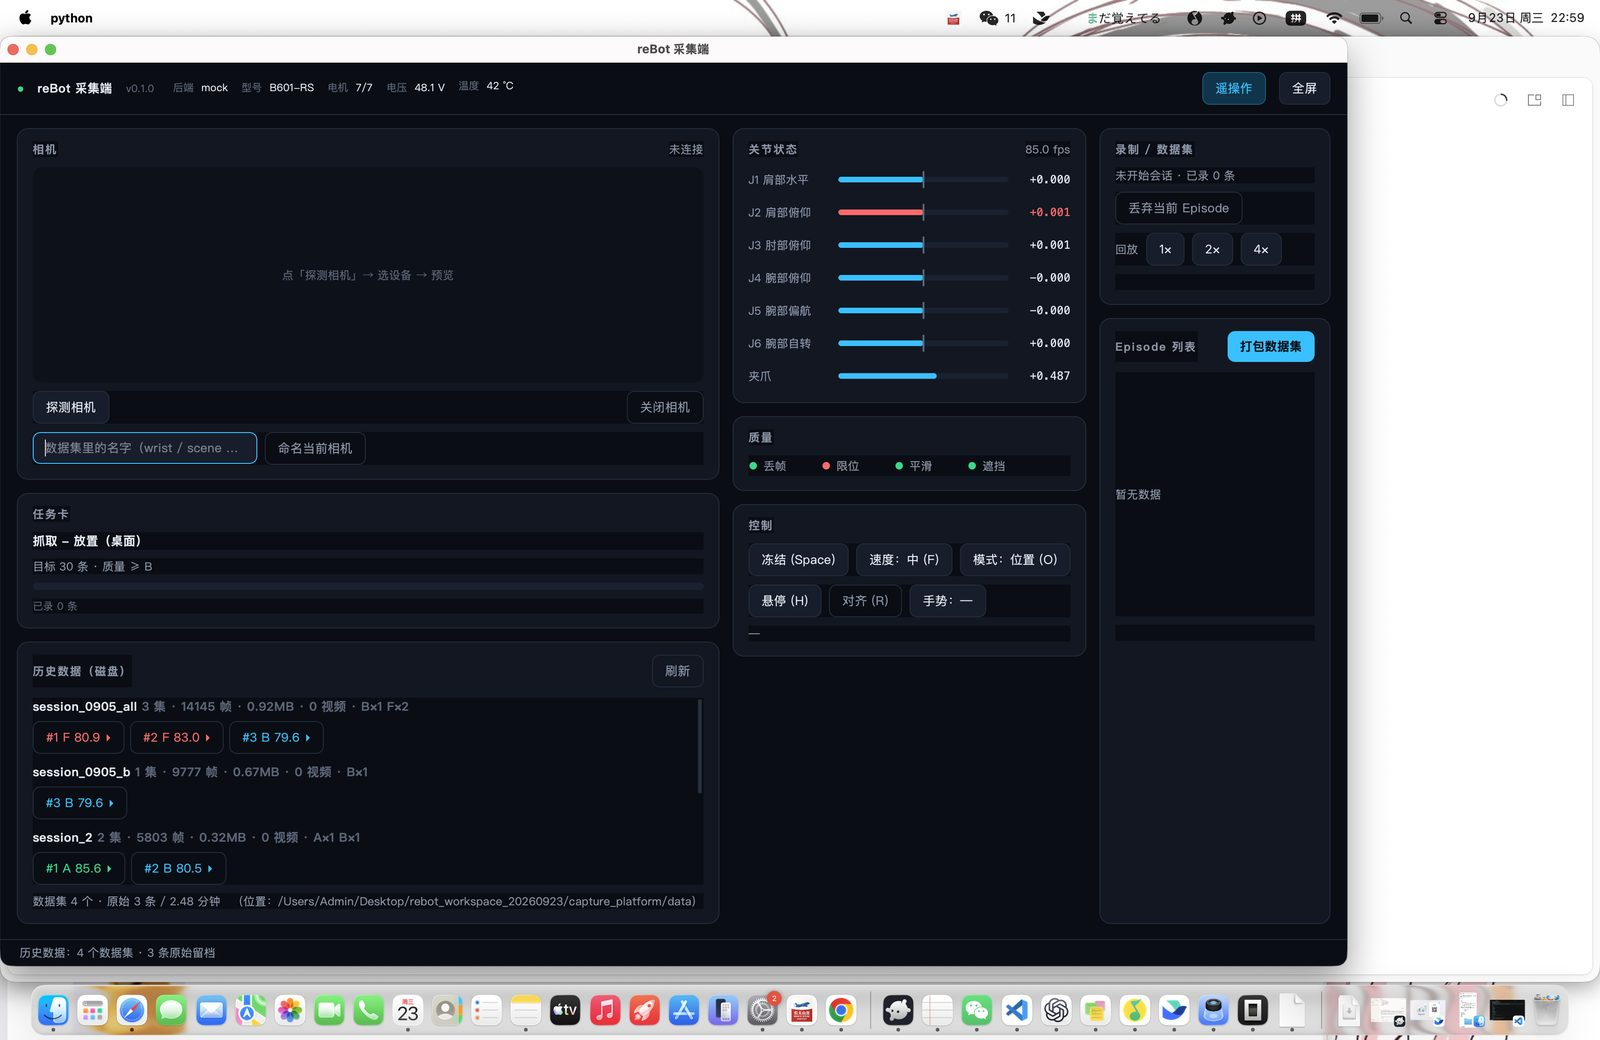
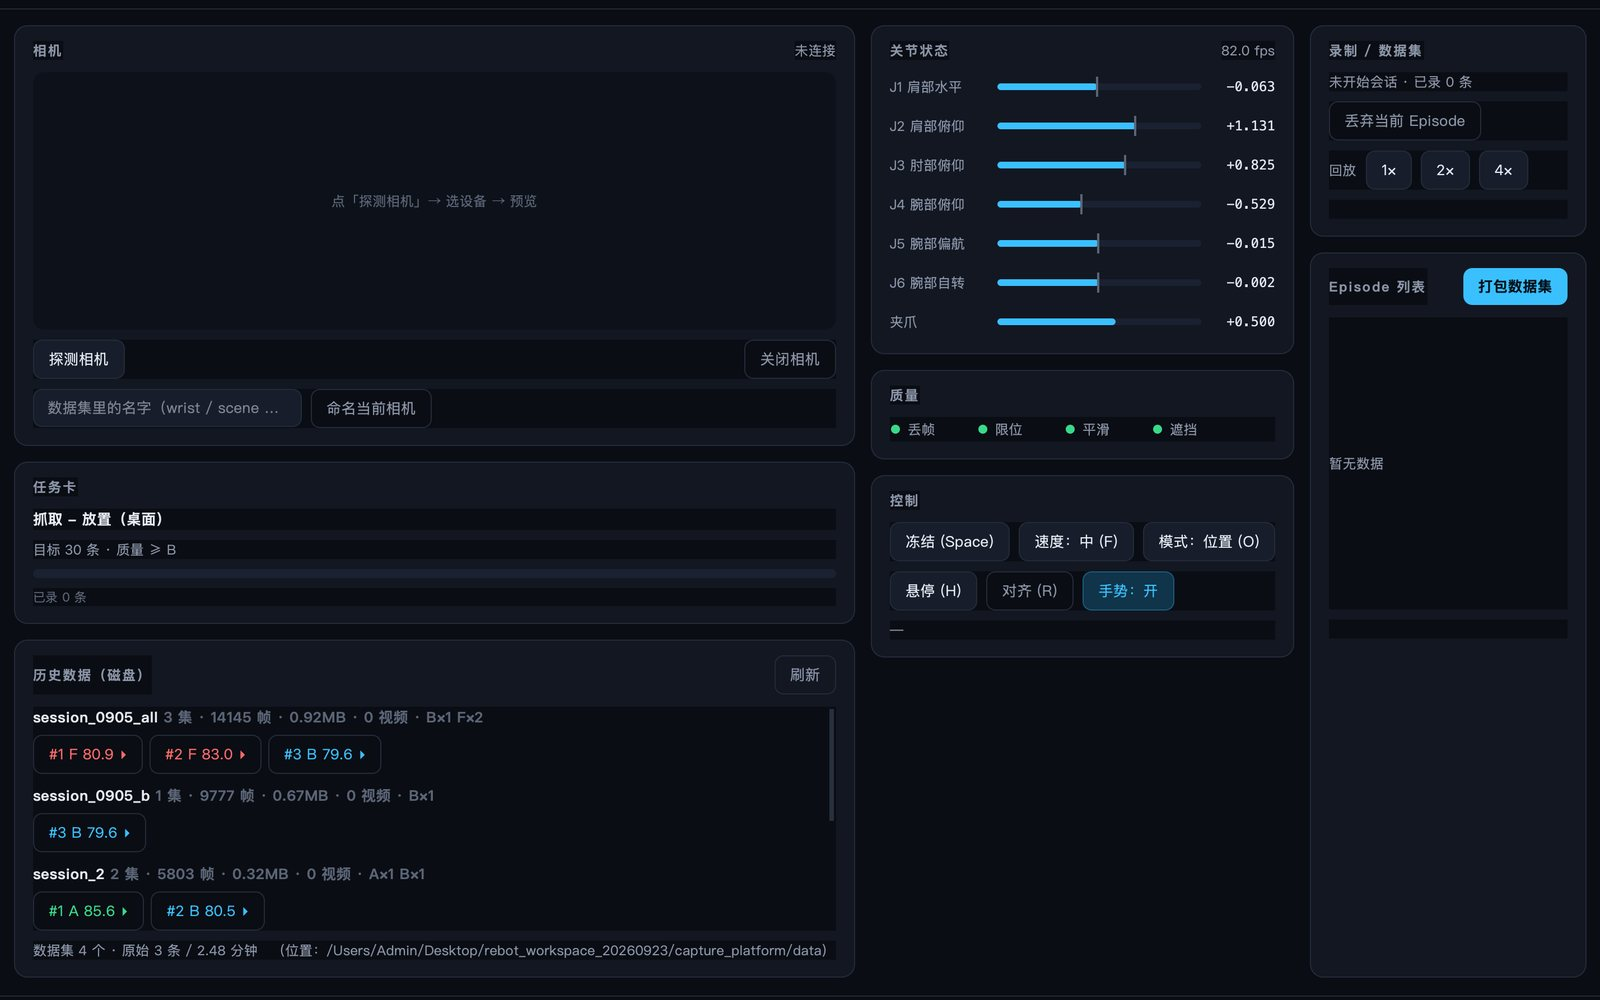
feat(site): 真实动作曲线图 + 干净界面截图；按数据实况修正表述
数据实况核查（本次发现，站点与提交材料已按此修正）：
- 评分卡缺「运动覆盖」维度：session_2 #1 全静止（6 关节行程 0.00 rad、夹爪恒 0）
  却拿到 A 85.6；session_0905_all #2 同样静止但被判 F（硬门正确拦住）
- 数据集的 action.gripper 列全为 0（旧格式），而原始 episode 有真实夹爪行程
  （20260923_135010：0.32→0.76）；列也对不齐（部分文件无 velocity/torque）
- 站点因此改为：hero 指标「数据集 7 集」、质量分标注 A×1/B×4/F×2 与评分缺陷说明、
  「边界」新增评分缺陷一条；轨迹图改用真有动作的 20260923_135010（7 自由度含夹爪）

工具与素材：
- 新增 capture_platform/scripts/shot_window.py：按窗口 ID 抓图（不受遮挡/不拍桌面），
  用于作品图片与站点素材
- GUI 新增 --cover（无边框铺满 + 置顶，不占独立全屏 Space）；原生全屏校验等待 0.5s→1.6s
  （避免 macOS 全屏动画期间被误判而回退）
- docs/screenshots/gui_panel_clean.png / gui_teleop_clean.png：无桌面/无 mock 字样的干净截图
- site/make_traj.py：从真实 parquet 直接画动作曲线（PIL，深色主题，中文字体）

diff --git a/site/index.html b/site/index.html
@@ -53,7 +53,7 @@
         <div><dt>电机</dt><dd><b data-count="7">0</b></dd></div>
         <div><dt>落盘帧率</dt><dd><b data-count="93">0</b><i>fps</i></dd></div>
         <div><dt>丢帧</dt><dd><b data-count="0" data-decimals="2">0</b><i>%</i></dd></div>
-        <div><dt>最佳等级</dt><dd><b>A</b><i>85.6</i></dd></div>
+        <div><dt>数据集</dt><dd><b data-count="7">0</b><i>集</i></dd></div>
       </dl>
     </div>
 
@@ -260,20 +260,22 @@
       <h3>数据集现状</h3>
       <table class="data-table">
         <tbody>
-          <tr><th>数据集</th><td>4 个（session_2 含 A 级）</td></tr>
-          <tr><th>episode</th><td>7 集 / 28,245 帧</td></tr>
+          <tr><th>数据集</th><td>4 个（7 条 episode）</td></tr>
+          <tr><th>数据量</th><td>7 集 / 28,245 帧</td></tr>
           <tr><th>成功标记</th><td>6 条成功 · 1 条失败留档</td></tr>
-          <tr><th>最佳质量分</th><td><b class="hl">85.6 · A 级</b>（session_2 #1）</td></tr>
+          <tr><th>质量分</th><td>78.7 – 85.6（A×1 / B×4 / F×2）</td></tr>
           <tr><th>溯源</th><td>MANIFEST.json + 每条 sha256</td></tr>
         </tbody>
       </table>
+      <p class="card-foot">注：评分卡仍缺「运动覆盖」维度 —— 静止录制也可能拿高分，
+        已列入下方「边界」。上表是现状，不是结论。</p>
     </div>
   </div>
 
   <div class="grid grid-2 shots">
     <figure class="shot reveal">
-      <img src="assets/gui_teleop.jpg" alt="遥操作界面：整屏画板 + 四角 HUD" loading="lazy" />
-      <figcaption><b>遥操作界面</b>整屏画板 + 四角 HUD：模式/冻结/速度、两路相机、电机选择、录制状态</figcaption>
+      <img src="assets/traj.jpg" alt="一条真实 episode 的 7 自由度动作曲线" loading="lazy" />
+      <figcaption><b>真实动作曲线</b>6 关节 + 夹爪，来自 <code>data/episodes/20260923_135010</code>（5510 帧 / 59.4s）；每个关节按自身范围缩放，否则小幅运动会被压成直线</figcaption>
     </figure>
     <figure class="shot reveal">
       <img src="assets/gui_panel.jpg" alt="控制面板：相机、关节、质量、历史数据" loading="lazy" />
@@ -329,6 +331,7 @@
   </div>
   <div class="limits">
     <div class="limit reveal"><span class="tag tag-do">已跑通</span><p>真机遥操采集 → 质检 → 打包 → 回放；7 电机 / 4 数据集可查</p></div>
+    <div class="limit reveal"><span class="tag tag-todo">评分缺陷</span><p>评分卡缺「运动覆盖」维度：静止录制也能拿高分（现有一条 A 级 episode 就是全静止的），需要补覆盖度/有效行程判据</p></div>
     <div class="limit reveal"><span class="tag tag-todo">未接入</span><p>训练链路（ACT 等）：仓库里只有数据与回放，没有训练代码</p></div>
     <div class="limit reveal"><span class="tag tag-todo">未对齐</span><p>数据集是 LeRobot 风格，但未逐字段对齐 v3，需要转换器</p></div>
     <div class="limit reveal"><span class="tag tag-todo">待加</span><p>多路同录（wrist + scene）：当前只录选中的那一路相机</p></div>

diff --git a/capture_platform/scripts/shot_window.py b/capture_platform/scripts/shot_window.py
@@ -1,0 +1,117 @@
+"""按窗口抓图：拿到窗口本体的干净截图（不受其它窗口遮挡、不受所在 Space 影响）。
+
+用途：作品图片 / 站点素材 —— 不会拍到桌面、菜单栏、程序坞、聊天窗口。
+
+用法：
+    # 列出当前所有可见窗口（标题 / 所属进程 / 尺寸 / 窗口ID）
+    .venv/bin/python scripts/shot_window.py --list
+
+    # 按标题关键字抓某个窗口
+    .venv/bin/python scripts/shot_window.py --title "reBot" -o /tmp/gui.png
+
+    # 可选裁剪（比例，0-1）：--crop 左,上,右,下
+    .venv/bin/python scripts/shot_window.py --title "reBot" --crop 0,0.05,1,0.97 -o /tmp/gui.png
+
+说明：用 CGWindowListCreateImage 抓窗口缓冲区，因此**即使窗口在别的全屏 Space 也能拍到**；
+需要终端（或运行本脚本的程序）具备「屏幕录制」权限。
+"""
+from __future__ import annotations
+
+import argparse
+import subprocess
+import sys
+import tempfile
+from pathlib import Path
+
+import Quartz
+from PIL import Image
+
+
+def list_windows(owner_filter: str | None = None) -> list[dict]:
+    wins = Quartz.CGWindowListCopyWindowInfo(
+        Quartz.kCGWindowListOptionOnScreenOnly | Quartz.kCGWindowListExcludeDesktopElements,
+        Quartz.kCGNullWindowID,
+    )
+    out = []
+    for w in wins or []:
+        owner = w.get("kCGWindowOwnerName") or ""
+        title = w.get("kCGWindowName") or ""
+        bounds = w.get("kCGWindowBounds") or {}
+        if owner_filter and owner_filter.lower() not in (owner + title).lower():
+            continue
+        out.append({
+            "id": int(w.get("kCGWindowNumber", 0)),
+            "owner": owner,
+            "title": title,
+            "w": int(bounds.get("Width", 0)),
+            "h": int(bounds.get("Height", 0)),
+            "layer": int(w.get("kCGWindowLayer", 0)),
+        })
+    return out
+
+
+def shoot(window_id: int, out: Path, crop: tuple[float, float, float, float] | None = None) -> Path:
+    img = Quartz.CGWindowListCreateImage(
+        Quartz.CGRectNull,
+        Quartz.kCGWindowListOptionIncludingWindow,
+        window_id,
+        Quartz.kCGWindowImageBoundsIgnoreFraming,
+    )
+    if img is None:
+        raise RuntimeError(f"抓不到窗口 {window_id}（可能没有屏幕录制权限，或窗口已关闭）")
+    tmp = Path(tempfile.mkstemp(suffix=".png")[1])
+    url = Quartz.CFURLCreateFromFileSystemRepresentation(None, str(tmp).encode(), len(str(tmp).encode()), False)
+    dest = Quartz.CGImageDestinationCreateWithURL(url, "public.png", 1, None)
+    Quartz.CGImageDestinationAddImage(dest, img, None)
+    Quartz.CGImageDestinationFinalize(dest)
+
+    im = Image.open(tmp)
+    if crop:
+        l, t, r, b = crop
+        im = im.crop((int(im.width * l), int(im.height * t), int(im.width * r), int(im.height * b)))
+    out.parent.mkdir(parents=True, exist_ok=True)
+    im.save(out)
+    tmp.unlink(missing_ok=True)
+    return out
+
+
+def main() -> int:
+    ap = argparse.ArgumentParser(description="按窗口抓干净截图")
+    ap.add_argument("--list", action="store_true", help="列出窗口")
+    ap.add_argument("--filter", default=None, help="列表过滤关键字")
+    ap.add_argument("--title", default=None, help="标题/进程关键字（抓图用）")
+    ap.add_argument("--id", type=int, default=None, help="直接指定窗口 ID")
+    ap.add_argument("-o", "--out", default="/tmp/window.png", help="输出 PNG")
+    ap.add_argument("--crop", default=None, help="裁剪比例：左,上,右,下（0-1）")
+    args = ap.parse_args()
+
+    if args.list or (args.title is None and args.id is None):
+        wins = list_windows(args.filter)
+        print(f"{'窗口ID':>8}  {'尺寸':>11}  {'层':>3}  进程 / 标题")
+        for w in wins:
+            print(f"{w['id']:>8}  {w['w']:>5}x{w['h']:<5}  {w['layer']:>3}  {w['owner']} / {w['title']}")
+        return 0
+
+    wid = args.id
+    if wid is None:
+        cands = [w for w in list_windows(args.filter) or list_windows()]
+        matched = [w for w in cands if args.title.lower() in (w["owner"] + " " + w["title"]).lower()
+                   and w["layer"] == 0 and w["w"] > 200]
+        if not matched:
+            print(f"没有匹配 '{args.title}' 的窗口；用 --list 看看", file=sys.stderr)
+            return 1
+        wid = matched[0]["id"]
+        print(f"匹配到窗口 {wid}: {matched[0]['owner']} / {matched[0]['title']} "
+              f"{matched[0]['w']}x{matched[0]['h']}")
+
+    crop = None
+    if args.crop:
+        crop = tuple(float(x) for x in args.crop.split(","))
+        assert len(crop) == 4, "--crop 需要 4 个比例值"
+    path = shoot(wid, Path(args.out), crop)
+    print(f"✅ 已保存 {path}  ({Image.open(path).size[0]}x{Image.open(path).size[1]})")
+    return 0
+
+
+if __name__ == "__main__":
+    raise SystemExit(main())

diff --git a/site/make_traj.py b/site/make_traj.py
@@ -1,0 +1,115 @@
+"""把真实 episode 画成轨迹图（站点/作品图片用）—— PIL 直画，深色主题。
+
+数据源：data/episodes/20260923_135010_ep000002.parquet
+（= session_3 #2 的原始文件：5510 帧 / 59.4s / 关节行程 6.70 rad / 夹爪 0.32–0.76）
+"""
+from pathlib import Path
+
+import numpy as np
+import pyarrow.parquet as pq
+from PIL import Image, ImageDraw, ImageFont
+
+ROOT = Path(__file__).resolve().parent
+SRC = ROOT.parent / "capture_platform/data/episodes/20260923_135010_ep000002.parquet"
+OUT = ROOT / "assets/traj.png"
+
+BG = (10, 13, 19)
+PANEL = (18, 23, 34)
+GRID = (30, 38, 54)
+TEXT = (230, 235, 244)
+DIM = (139, 149, 168)
+FAINT = (91, 101, 119)
+ACCENT = (58, 192, 255)
+WARN = (245, 196, 81)
+
+NAMES = ["J1 肩部水平", "J2 肩部俯仰", "J3 肘部俯仰",
+         "J4 腕部俯仰", "J5 腕部偏航", "J6 腕部自转"]
+KEYS = ["shoulder_pan", "shoulder_lift", "elbow_flex",
+        "wrist_flex", "wrist_yaw", "wrist_roll"]
+FONT_CANDIDATES = ["/System/Library/Fonts/Hiragino Sans GB.ttc",
+                   "/System/Library/Fonts/STHeiti Light.ttc",
+                   "/System/Library/Fonts/Songti.ttc"]
+
+
+def font(size: int):
+    for p in FONT_CANDIDATES:
+        if Path(p).exists():
+            try:
+                f = ImageFont.truetype(p, size, index=0)
+                if f.getmask("中").getbbox():      # 确认能渲染中文
+                    return f
+            except Exception:
+                continue
+    return ImageFont.load_default()
+
+
+def main():
+    rows = pq.read_table(SRC).to_pylist()
+    t = np.array([r["timestamp"] for r in rows])
+    total = float(t[-1] - t[0]) or 1.0
+    grip = np.array([r.get("action.gripper", r.get("gripper.pos", 0.0)) for r in rows])
+
+    W, H = 1600, 900
+    im = Image.new("RGB", (W, H), BG)
+    d = ImageDraw.Draw(im)
+
+    L, R, T = 176, 44, 208          # 绘图区边距
+    B = H - 150
+    pw, ph = W - L - R, B - T
+    row_h = ph / 6
+
+    # 标题
+    d.text((52, 40), "一条 episode 里的 7 自由度动作", font=font(38), fill=TEXT)
+    d.text((52, 96), "5510 帧 · 59.4s · 落盘 ~93fps · 关节总行程 6.70 rad · 夹爪 0.32→0.76",
+           font=font(21), fill=DIM)
+    d.text((52, 130), "数据文件：data/episodes/20260923_135010_ep000002.parquet",
+           font=font(17), fill=FAINT)
+
+    d.rounded_rectangle([L - 12, T - 14, W - R + 12, B + 14], 12, fill=PANEL)
+    for i in range(7):
+        y = T + row_h * i
+        d.line([(L, y), (W - R, y)], fill=GRID, width=1)
+    for i in range(7):
+        x = L + pw * i / 6
+        d.line([(x, T), (x, B)], fill=GRID, width=1)
+        if i:
+            d.text((x - 24, B + 30), f"{total * i / 6:.0f}s", font=font(17), fill=FAINT)
+
+    # 每个关节按自身范围自动缩放（否则小幅运动会被压成直线）
+    for idx, (name, key) in enumerate(zip(NAMES, KEYS)):
+        v = np.array([r[f"action.{key}"] for r in rows], dtype=float)
+        lo, hi = float(v.min()), float(v.max())
+        pad = max(0.06, (hi - lo) * 0.18)
+        lo, hi = lo - pad, hi + pad
+        y0, y1 = T + row_h * idx + 10, T + row_h * (idx + 1) - 10
+        if lo < 0 < hi:                                  # 零线
+            zy = y1 - (y1 - y0) * (0 - lo) / (hi - lo)
+            d.line([(L, zy), (W - R, zy)], fill=(44, 54, 74), width=1)
+        pts = [(L + pw * float(t[i] - t[0]) / total,
+                y1 - (y1 - y0) * (float(v[i]) - lo) / (hi - lo)) for i in range(len(v))]
+        d.line(pts, fill=ACCENT, width=2, joint="curve")
+        d.text((44, T + row_h * idx + 16), name, font=font(20), fill=DIM)
+        d.text((44, T + row_h * idx + 42), f"{lo + pad:+.2f} ~ {hi - pad:+.2f}",
+               font=font(16), fill=FAINT)
+
+    # 夹爪行程（单独一条，0-1）
+    gy0, gy1 = B + 40, B + 92
+    d.rounded_rectangle([L - 12, gy0 - 12, W - R + 12, gy1 + 12], 10, fill=PANEL)
+    d.line([(L, gy1), (W - R, gy1)], fill=GRID, width=1)
+    gp = [(L + pw * float(t[i] - t[0]) / total,
+           gy1 - (gy1 - gy0) * float(np.clip(grip[i], 0, 1))) for i in range(len(grip))]
+    d.line(gp, fill=WARN, width=2)
+    d.text((44, gy0 + 4), "夹爪行程", font=font(19), fill=DIM)
+    d.text((W - R - 44, gy0 - 2), "1.0", font=font(15), fill=FAINT)
+    d.text((W - R - 44, gy1 - 14), "0.0", font=font(15), fill=FAINT)
+
+    OUT.parent.mkdir(parents=True, exist_ok=True)
+    im.save(OUT, "PNG", optimize=True)
+    jpg = OUT.with_suffix(".jpg")
+    im.save(jpg, "JPEG", quality=86, optimize=True)
+    print(f"✅ {OUT}  {im.size}  {OUT.stat().st_size/1024:.0f}KB")
+    print(f"✅ {jpg}  {jpg.stat().st_size/1024:.0f}KB")
+
+
+if __name__ == "__main__":
+    main()

diff --git a/capture_platform/rebot_capture/gui/app.py b/capture_platform/rebot_capture/gui/app.py
@@ -625,7 +625,9 @@ class MainWindow(QMainWindow):
         self.showFullScreen()
         self.raise_()
         self.activateWindow()
-        QTimer.singleShot(500, self._verify_fullscreen)
+        # macOS 原生全屏有 ~1s 动画，期间 geometry 还是旧值 —— 等它落定再校验，
+        # 否则会把"正在全屏"误判成"没全屏"而回退到铺满模式。
+        QTimer.singleShot(1600, self._verify_fullscreen)
 
     def _verify_fullscreen(self) -> None:
         if not self._fs_on:
@@ -635,14 +637,21 @@ class MainWindow(QMainWindow):
         covered = g.width() >= scr.width() - 40 and g.height() >= scr.height() - 40
         if self.isFullScreen() and covered:
             return
-        # 回退：无边框 + 置顶 + 铺满（不依赖 macOS 全屏 Space）
+        self._cover_fullscreen()
+        self.set_status("已用无边框全屏（原生全屏未生效，属 macOS 正常表现）")
+
+    def _cover_fullscreen(self) -> None:
+        """铺满屏幕：无边框 + 置顶，不进入 macOS 独立全屏 Space（录屏/截图更可控）。"""
+        self._fs_on = True
         self._fake_fs = True
+        self.b_full.setText("退出全屏")
+        scr = (self.screen() or QApplication.primaryScreen()).geometry()
         self.setWindowFlags(Qt.WindowType.FramelessWindowHint | Qt.WindowType.WindowStaysOnTopHint)
         self.setGeometry(scr)
         self.show()
         self.raise_()
         self.activateWindow()
-        self.set_status("已用无边框全屏（原生全屏未生效，属 macOS 正常表现）")
+        self.teleop.pad.setFocus()
 
     def _leave_fullscreen(self) -> None:
         self._fs_on = False
@@ -724,7 +733,8 @@ class _EventSpy(QObject):
 def run_gui(url: str = DEFAULT_URL, *, autostart: bool = True, windowed: bool = False,
             backend: str = "rebot", arm_repo: str | None = None,
             gesture_camera: int = 2, service_log: str = "/tmp/rebot_gui_serve.log",
-            start_panel: bool = False, debug_events: bool = False) -> int:
+            start_panel: bool = False, debug_events: bool = False,
+            cover: bool = False) -> int:
     app = QApplication.instance() or QApplication(sys.argv[:1])
     app.setApplicationName("reBot 采集端")
     app.setStyleSheet(theme.QSS)
@@ -759,7 +769,9 @@ def run_gui(url: str = DEFAULT_URL, *, autostart: bool = True, windowed: bool = 
     win.show()
     win.raise_()
     win.activateWindow()
-    if not windowed:
+    if cover:
+        win._cover_fullscreen()          # 铺满（无边框 + 置顶），不占独立全屏 Space
+    elif not windowed:
         win._enter_fullscreen()
     return app.exec()
 

diff --git a/capture_platform/rebot_capture/cli.py b/capture_platform/rebot_capture/cli.py
@@ -89,6 +89,8 @@ def main(argv: list[str] | None = None) -> int:
     p_gui.add_argument("--gesture-camera", type=int, default=2, help="自动拉起服务时的手势相机索引")
     p_gui.add_argument("--service-log", default="/tmp/rebot_gui_serve.log", help="自动拉起服务的日志路径")
     p_gui.add_argument("--panel", action="store_true", help="启动即显示控制面板（用于先配相机）")
+    p_gui.add_argument("--cover", action="store_true",
+                       help="铺满屏幕模式（无边框 + 置顶，不占独立全屏 Space；录屏/截图用）")
     p_gui.add_argument("--debug-events", action="store_true", help="打印键鼠事件（排查幽灵输入用）")
 
     p_self = sub.add_parser("selftest", help="无硬件自检：遥操→录制→质检→打包")
@@ -140,6 +142,7 @@ def main(argv: list[str] | None = None) -> int:
             service_log=args.service_log,
             start_panel=args.panel,
             debug_events=args.debug_events,
+            cover=args.cover,
         )
 
     if args.cmd == "selftest":

diff --git a/capture_platform/README.md b/capture_platform/README.md
@@ -1,9 +1,9 @@
-# rebot-capture · RDP 采集端（框架）
+# rebot-capture · 采集端
 
 > 本地优先、离线可用的采集端：**设备状态 → 遥操 → 录制 → 质检 → 打包 LeRobot 数据集**。
 > 设计文档见 `../采集平台方案.md`。
 
-当前是 **v0.1 框架**：全链路已打通（无硬件用 Mock 后端即可跑通自检），真机后端留好接口待接入。
+当前是 **v0.1**：全链路已打通（**遥操 → 录制 → 质检 → 打包 → 回放**）。真机后端已接入并在 reBot Arm B601-RS 上实测采集（已产出 4 个数据集、6 条 episode）；无硬件时用 Mock 后端即可跑通自检。
 
 ---
 
@@ -38,8 +38,8 @@ python3 -m venv .venv                       # 用系统/conda 的 python3.10+
 rebot_capture/
 ├── configs/rebot_b601_rs.json      # 设备档案（电机ID/型号/限位/增益，来自实测）
 ├── rebot_capture/
-│   ├── device/                     # 设备层：档案 / 后端协议 / Mock / 真机骨架
-│   ├── teleop/                     # 输入层：笔样本 / 映射（Mock v0；IK 待接入）
+│   ├── device/                     # 设备层：档案 / 后端协议 / Mock 后端 / 真机后端（B601-RS 实测）
+│   ├── teleop/                     # 输入层：笔样本 / 映射（真机走 teleop_core，Mock 走 MockPenMapper）
 │   ├── recorder/                   # 录制层：episode / 会话 / 落盘 + CaptureService
 │   ├── quality/                    # 质量层：硬门规则 + 评分卡（A/B/C/F）
 │   ├── packer/                     # 打包层：LeRobot 风格数据集 + 校验
@@ -119,7 +119,7 @@ rebot_capture/
 |---|---|
 | §4.3 采集端 App | `server/` + `web/` |
 | §5.1 一键配置 | `device/profile.py` → `to_auto_config()` |
-| §5.2 安全状态机 | `device/real_arm.py`（接口已留） |
+| §5.2 安全状态机 | `device/real_arm.py`（启动安全门 / MIT+重力前馈 / 力矩保护 / 归零与失能门，均已实现） |
 | §6 数据标准 | `packer/lerobot.py` + `meta/rebot_meta.json` |
 | §7 质量门/评分卡 | `quality/rules.py` + `quality/scoring.py` |
 | §9 API | `server/app.py`（见 docs/API.md） |
